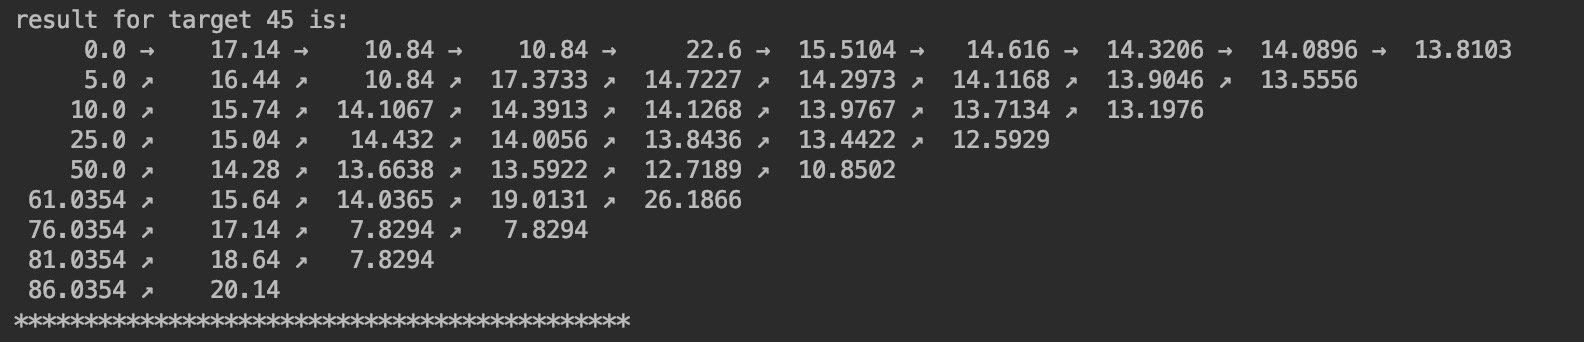
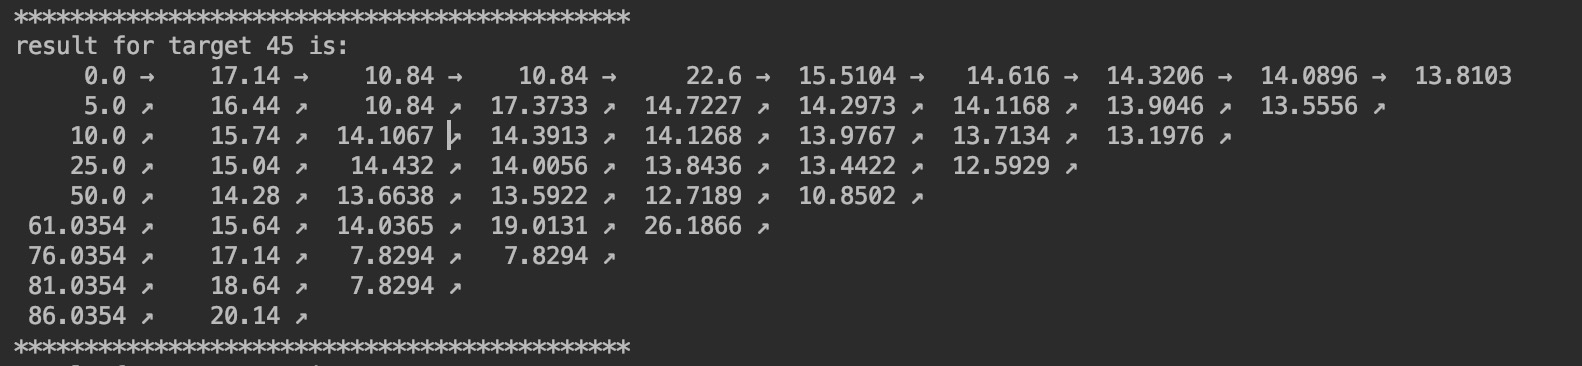
changed plot

Changed region(s): [[0.0, 0.0292, 0.9602, 0.9649]]

diff --git a/interpolation/Neville_algo.py b/interpolation/Neville_algo.py
@@ -54,8 +54,7 @@ class Poly_itp():
             if len(temp_x) == 1:
                 print('{number:>8}'.format(nunber=temp_x[0]))
             elif i != 0 and len(temp_x) > 1:
-                temp_list = [('{number:>8} ' + u'\u2197' + ' ').format(number=i) for i in temp_x[:-1]]
-                temp_list.append('{number:>8}'.format(number=temp_x[-1]))
+                temp_list = [('{number:>8} ' + u'\u2197' + ' ').format(number=i) for i in temp_x]
                 temp_str = ''.join(temp_list)
                 print(temp_str)
             elif i == 0 and len(temp_x) > 1:

diff --git a/interpolation/Interpolation.md b/interpolation/Interpolation.md
@@ -12,6 +12,7 @@ Index
 
 ## Neville's Algo
 
+- ![nev_algo]()
 - Example:
     ![nev_plot](images/nev_plot.jpg)
 
